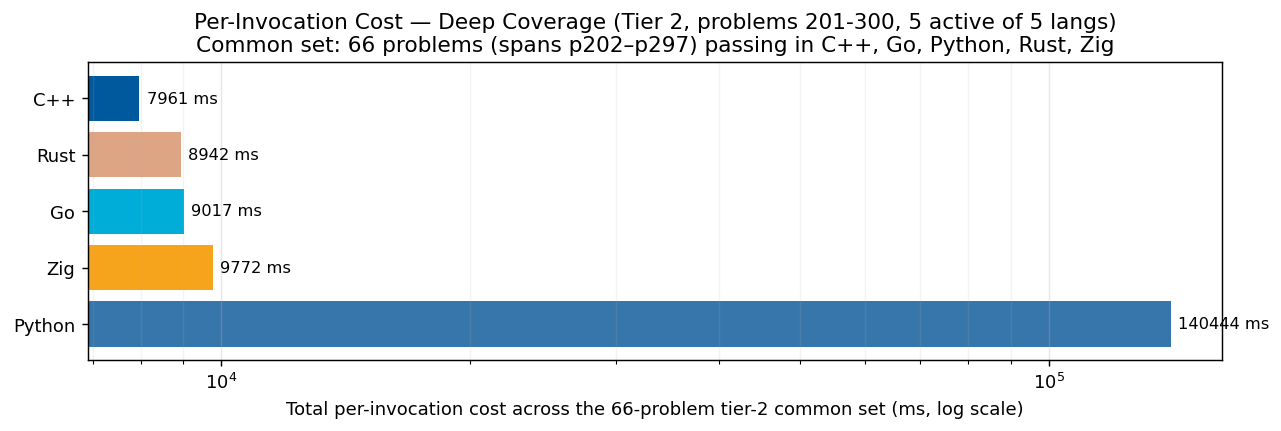
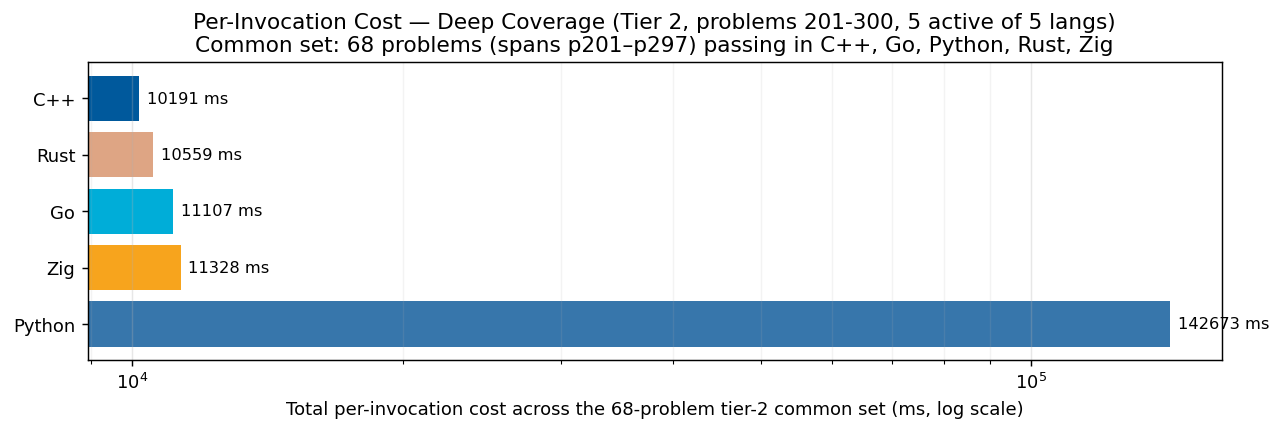
regen: 236 un-parked (5-lang) + 238 un-parked (cpp/go/rust/zig); refresh tier-2 charts + 201-300 detail

diff --git a/RESULTS.md b/RESULTS.md
@@ -1,6 +1,6 @@
 # Project Euler — Cross-Language Benchmarks
 
-> **Scope: 3400 in-scope cells across 600 problems × tiered languages — 2998 measured (88.2% coverage).**
+> **Scope: 3400 in-scope cells across 600 problems × tiered languages — 3008 measured (88.5% coverage).**
 > The cross-language ranking below is computed over the **200-problem common set** (problems in 1-200 where every language has a passing measurement) — the apples-to-apples Foundation comparison surface.  Per-tier rankings and coverage detail appear further below.
 > Growing carefully — each new problem and language is audited for state-leak
 > safety, verified for answer correctness, and added only when it cleanly fits the
@@ -46,17 +46,17 @@ How much code does each language need to solve these 200 Foundation problems, an
 
 Same per-invocation metric, restricted to the deeper subset of languages (C++, Go, Python, Rust, Zig) that intentionally pushed past problem 200. The other 5 Foundation languages are out of tier scope here — they're capped at 200 by the project's language-cap policy (see JOURNEY.md).
 
-### Per-Invocation Cost (Common Set, 66 of 100 problems)
+### Per-Invocation Cost (Common Set, 68 of 100 problems)
 
 ![Per-Invocation Cost — Tier 2](charts/per_iter_total_tier2.png)
 
-| Rank | Language | Total (66-problem common set) | Lines of code | vs Fastest |
+| Rank | Language | Total (68-problem common set) | Lines of code | vs Fastest |
 |------|----------|--------------------:|--------------:|-----------:|
-| 1 | **C++** | 7.96 s | 8,832 | 1.00× |
-| 2 | **Rust** | 8.94 s | 6,216 | 1.12× |
-| 3 | **Go** | 9.02 s | 6,486 | 1.13× |
-| 4 | **Zig** | 9.77 s | 7,003 | 1.23× |
-| 5 | **Python** | 140.44 s | 4,418 | 17.64× |
+| 1 | **C++** | 10.19 s | 8,966 | 1.00× |
+| 2 | **Rust** | 10.56 s | 6,392 | 1.04× |
+| 3 | **Go** | 11.11 s | 6,697 | 1.09× |
+| 4 | **Zig** | 11.33 s | 7,202 | 1.11× |
+| 5 | **Python** | 142.67 s | 4,524 | 14.00× |
 
 ### Speed vs Code Size
 

diff --git a/per_problem/per_problem_201-300.md b/per_problem/per_problem_201-300.md
@@ -10,7 +10,7 @@ column per language in tier-1 display order (native → managed → interpreted)
 
 | Problem | C++ | Rust | Zig | Go | Python |
 |---------|----:|----:|----:|----:|----:|
-| **p201** | 658.36 ms | 636.52 ms | 518.09 ms | 1.15 s | — |
+| **p201** | 518.28 ms | 43.31 ms | 48.90 ms | 531.25 ms | 574.43 ms |
 | **p202** | 4.7 µs | 10.2 µs | 8.1 µs | 5.7 µs | 97.0 µs |
 | **p203** | 133.0 µs | 99.8 µs | 64.8 µs | 80.6 µs | 349.2 µs |
 | **p204** | 14.26 ms | 13.27 ms | 14.27 ms | 22.09 ms | 1.11 s |
@@ -45,9 +45,9 @@ column per language in tier-1 display order (native → managed → interpreted)
 | **p233** | 28.74 ms | 29.14 ms | 19.37 ms | 31.93 ms | 4.16 s |
 | **p234** | 3.22 ms | 2.85 ms | 2.04 ms | 2.70 ms | 106.80 ms |
 | **p235** | 11.5 µs | 6.0 µs | 12.5 µs | 9.7 µs | 55.9 µs |
-| **p236** | — | — | — | — | — |
+| **p236** | 1.71 s | 1.57 s | 1.51 s | 1.56 s | 1.65 s |
 | **p237** | 39.3 µs | 47.7 µs | 9.0 µs | 21.1 µs | 444.8 µs |
-| **p238** | — | — | — | — | — |
+| **p238** | 1.12 s | 1.18 s | 1.01 s | 1.26 s | — |
 | **p239** | 583 ns | 125 ns | 41 ns | 1.7 µs | 242.9 µs |
 | **p240** | 50.5 µs | 103.8 µs | 27.0 µs | 143.2 µs | 2.03 ms |
 | **p241** | — | — | — | — | — |
